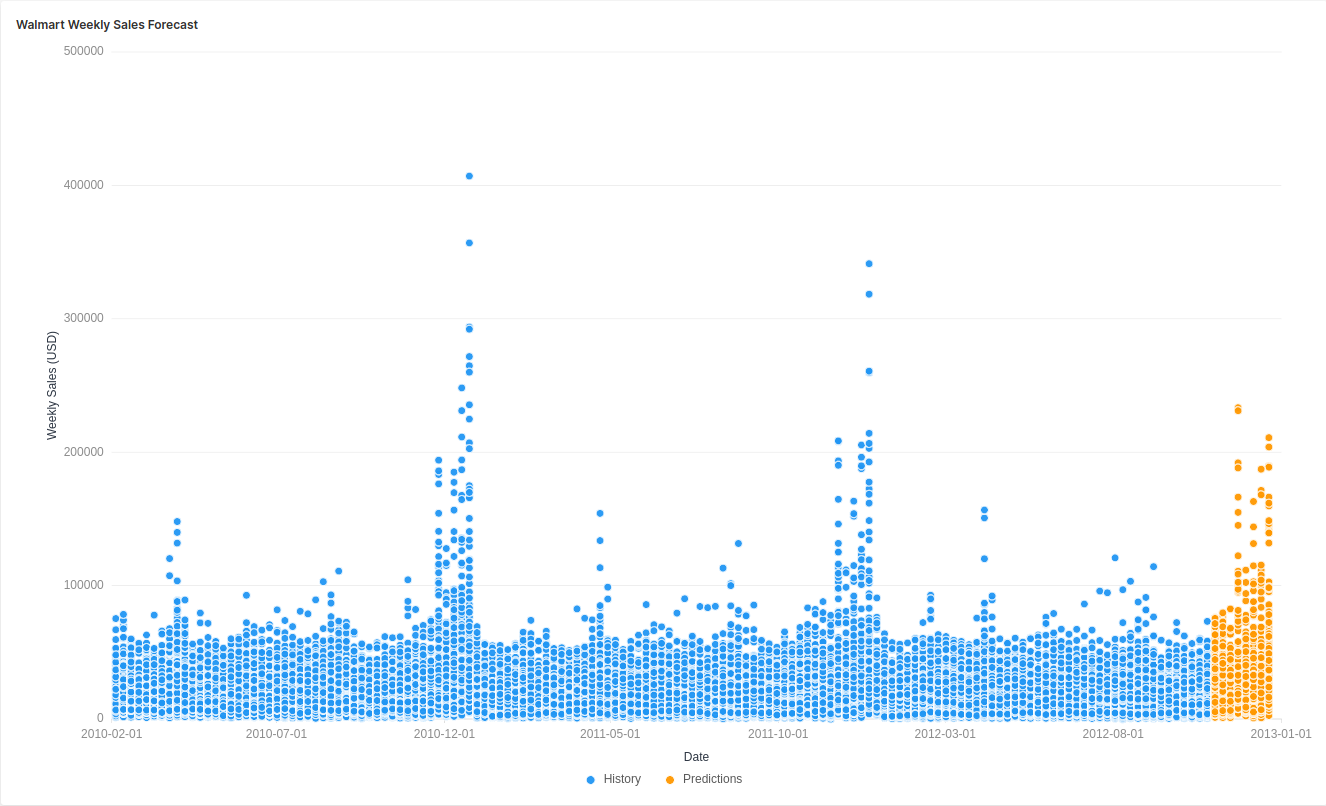
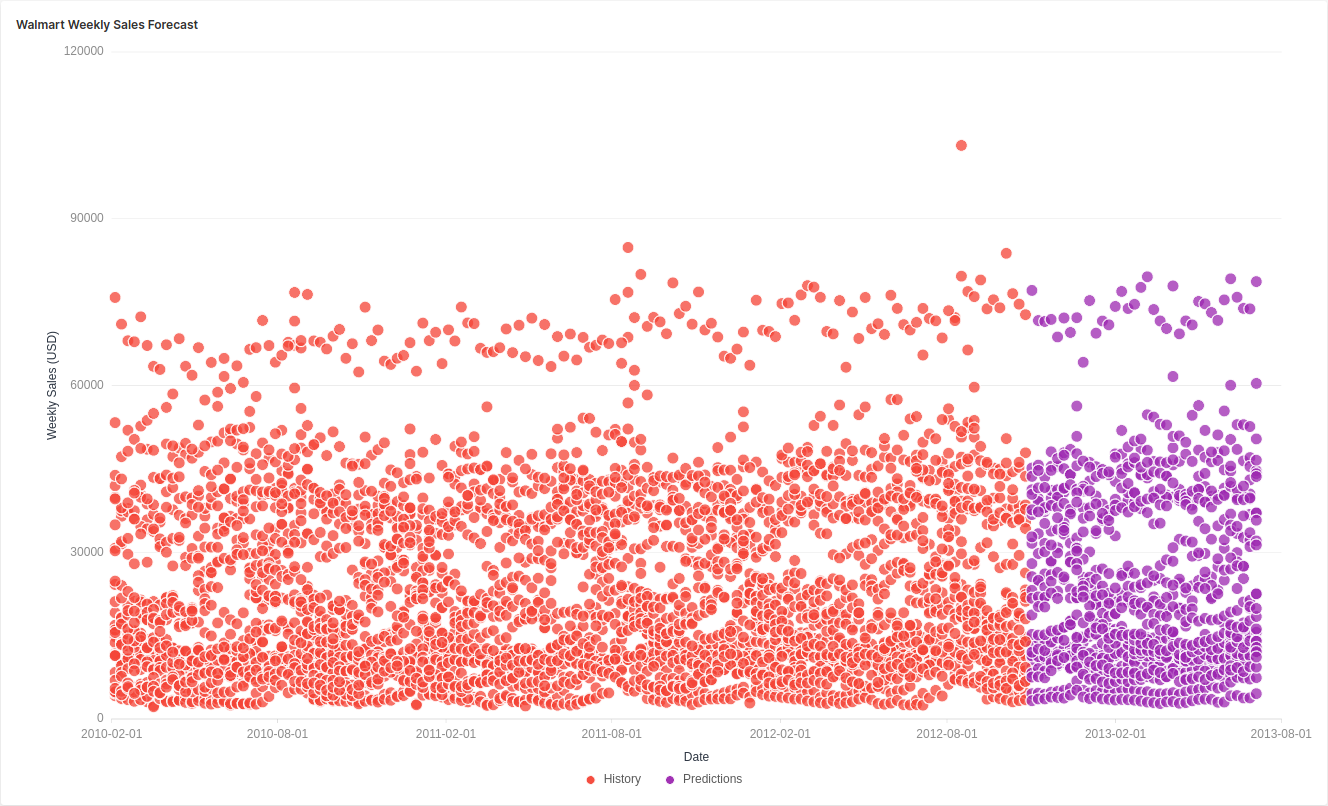
Update values of components without redrawing, new colors

diff --git a/sales-forecasting/wave-forecast.py b/sales-forecasting/wave-forecast.py
@@ -10,6 +10,30 @@ from h2o_wave import app, data, main, Q, ui
 
 
 @dataclass
+class WaveColors:
+    # Colors from Wave default Theme.
+    # https://github.com/h2oai/wave/blob/4ec0f6a6a2b8f43f11cdb557ba35a540ad23c13c/ui/src/theme.ts#L86
+    red: str = '#F44336'
+    pink: str = '#E91E63'
+    purple: str = '#9C27B0'
+    violet: str = '#673AB7'
+    indigo: str = '#3F51B5'
+    blue: str = '#2196F3'
+    azure: str = '#03A9F4'
+    cyan: str = '#00BCD4'
+    teal: str = '#009688'
+    mint: str = '#4CAF50'
+    green: str = '#8BC34A'
+    lime: str = '#CDDC39'
+    yellow: str = '#FFEB3B'
+    amber: str = '#FFC107'
+    orange: str = '#FF9800'
+    tangerine: str = '#FF5722'
+    brown: str = '#795548'
+    gray: str = '#9E9E9E'
+
+
+@dataclass
 class UserInputs:
     stores: Optional[List[int]] = field(default_factory=list)
     departments: Optional[List[int]] = field(default_factory=list)
@@ -137,17 +161,21 @@ def get_user_input_items(sales_data, user_inputs, progress=False):
     ]
 
 
+async def update_sidebar(q: Q, user_inputs, progress=False):
+    q.page['sidebar'].items[1].dropdown.values = [str(x) for x in user_inputs.stores]
+    q.page['sidebar'].items[3].dropdown.values = [str(x) for x in user_inputs.departments]
+    q.page['sidebar'].items[6].slider.value = user_inputs.n_forecast_weeks
+    q.page['sidebar'].items[10].progress.visible = progress
+    await q.page.save()
+
+
 async def draw_weekly_sales_plot(q: Q, plot_data):
-    # del q.page['content']
-    # Colors from Wave default Theme.
-    # https://github.com/h2oai/wave/blob/4ec0f6a6a2b8f43f11cdb557ba35a540ad23c13c/ui/src/theme.ts#L86
-    blue_orange = '#2196F3 #FF9800'
     v = q.page.add(
         'content',
         ui.plot_card(
             box='4 2 9 9',
             title='Walmart Weekly Sales Forecast',
-            data=data('Date Weekly_Sales data_type', len(plot_data)),
+            data=data('Date Weekly_Sales data_type', 0),
             plot=ui.plot([
                 ui.mark(
                     type='point',
@@ -158,7 +186,9 @@ async def draw_weekly_sales_plot(q: Q, plot_data):
                     x_title='Date',
                     y_title='Weekly Sales (USD)',
                     color='=data_type',
-                    color_range=blue_orange,
+                    color_range=' '.join([WaveColors.red, WaveColors.purple]),
+                    size=6,
+                    fill_opacity=0.75,
                     shape='circle'
                 )
             ])
@@ -217,17 +247,14 @@ async def initialize_app(q: Q):
 
 @app('/')
 async def serve(q: Q):
-
     if not q.client.app_initialized:
         await initialize_app(q)
         q.client.app_initialized = True
         return
 
     q.app.user_inputs.update(q.args)
-
-    q.page['sidebar'].items = get_user_input_items(q.app.sales_data, q.app.user_inputs, progress=True)
-    await q.page.save()
-
+    await update_sidebar(q, q.app.user_inputs, progress=True)
     plot_data = q.app.sales_data.get_plot_data(**asdict(q.app.user_inputs))
     q.page['sidebar'].items[10].progress.visible = False
-    await draw_weekly_sales_plot(q, plot_data)
+    q.page['content'].data = plot_data
+    await q.page.save()
